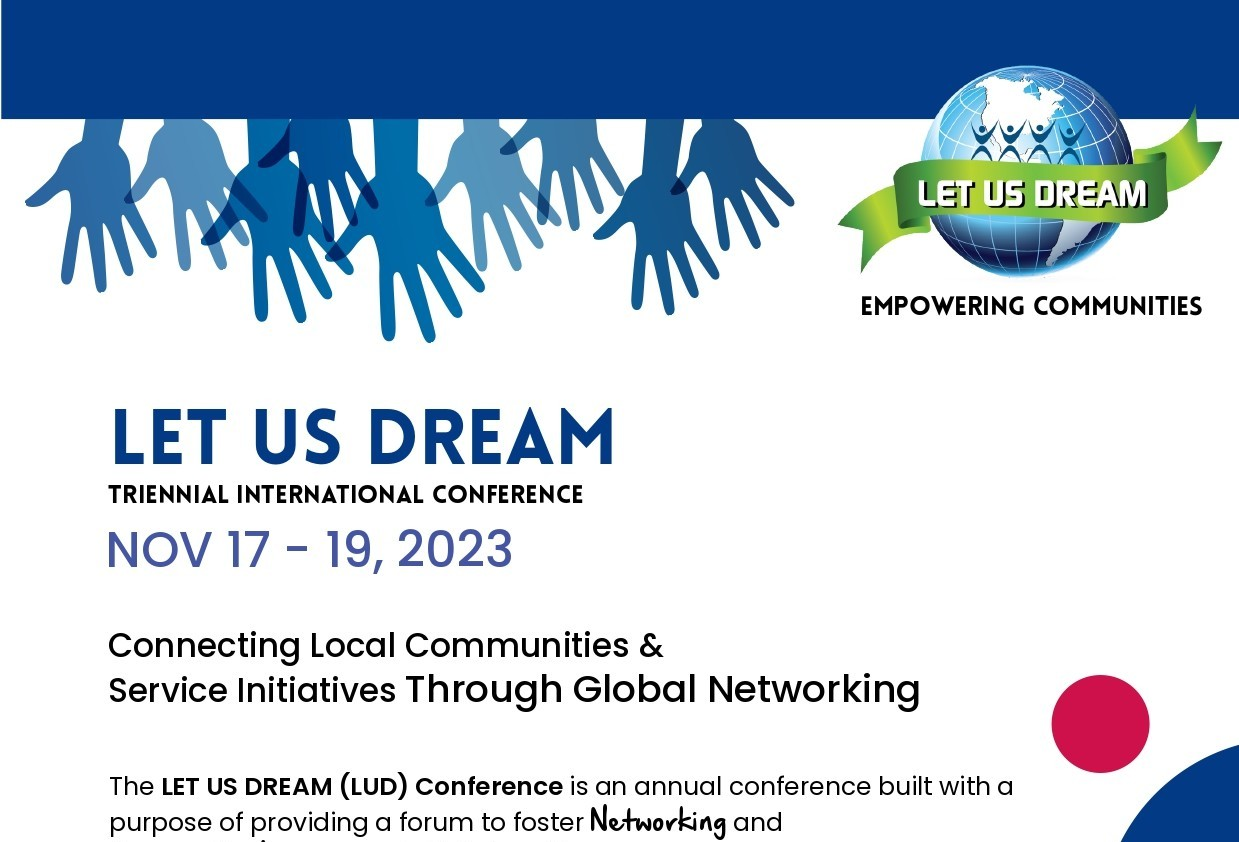
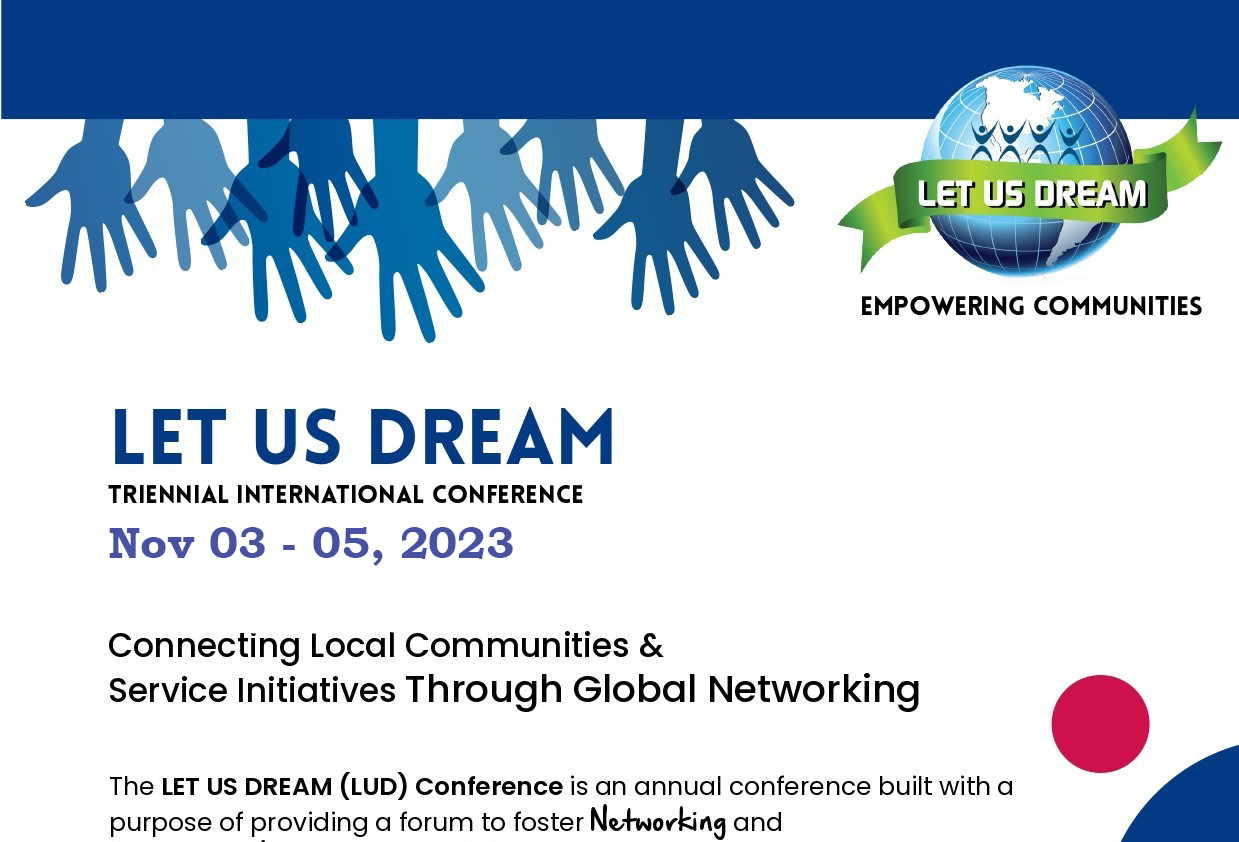
conference updates as date changes

Changed region(s): [[0.2454, 0.6176, 0.4294, 0.6793], [0.092, 0.6176, 0.2147, 0.6793]]

diff --git a/templates/home/index.html b/templates/home/index.html
@@ -186,7 +186,7 @@ HOME
             <a href="{% url 'tc-2023' %}">
               <img class="img-fluid card-img-top feed-area " src="{% static 'home/Lud2023.jpg' %}"" alt="wrappixel kit"></a>
             <div class="date-pos bg-info-gradiant p-2 d-inline-block text-center rounded text-white position-absolute">
-              Nov<span class="d-block">17 - 19</span></div>
+              Nov<span class="d-block">3 - 5</span></div>
             <h5 class="font-weight-medium mt-4 text-center"><a href="{% url 'tc-2023' %}" class="text-decoration-none link">
               Triennial Conferences 2023
             </a></h5>

diff --git a/templates/conference/triennialConference.html b/templates/conference/triennialConference.html
@@ -70,7 +70,7 @@ Triennial Conferences
                         class="img-fluid rounded mx-auto d-block cus-img" alt="Responsive image">
                     <div
                         class="bg-info-gradiant p-2 d-inline-block text-center rounded text-white position-absolute top-0 end-0">
-                        Nov<span class="d-block">17 - 19</span>2023</div>
+                        Nov<span class="d-block">3 - 5</span>2023</div>
                 </a>
                 <div
                     class="col-lg-12 col-md-12 col-sm-12 col-xs-12 text-center align-self-center d-flex justify-content-center">

diff --git a/templates/conference/triennialConference/triennialConference2023.html b/templates/conference/triennialConference/triennialConference2023.html
@@ -41,7 +41,7 @@ Triennial Conference 2023
         Empowered Communities: Strengthening Connections For a Sustainable Future
     </div>
     <div class="fs-3 font fw-bold mt-2"><em>LET US DREAM</em> 2023 Triennial International Conference</div>
-    <div class="fs-4 text-font mt-2">CHRIST University, Bangalore | November 17 to November 19, 2023</div>
+    <div class="fs-4 text-font mt-2">CHRIST University, Bangalore | November 3 to November 5, 2023</div>
     <h4></h4>
 </div>
 
